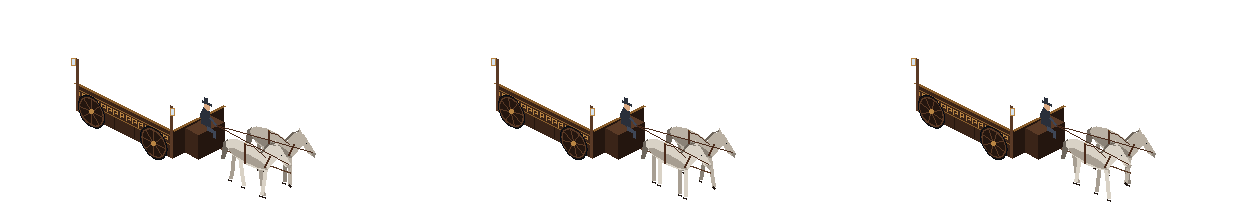
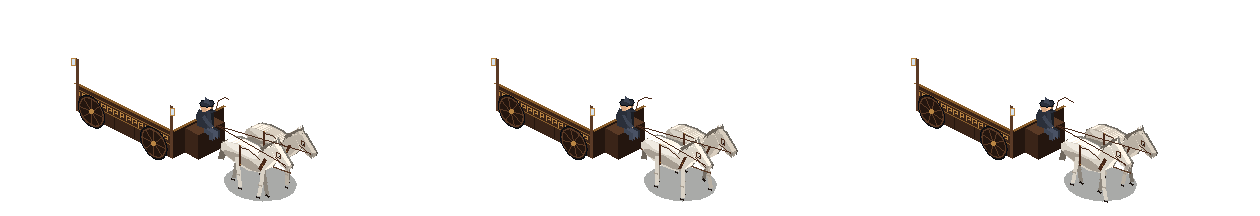
Corredor mais curto e sem casas fechadas; câmera da carruagem mais longe; cavalos e cocheiro com volume
A navegação de uma sala nova contava os móveis da sala anterior, que só
saía da árvore no fim do quadro: depois do quarto, a casa (4, 1) do
corredor ficava fechada. A sala velha agora sai da árvore na hora.
Esperando na porta de Althea, virar para uma ponta conta como olhar.

Claude-Session: https://claude.ai/code/session_014GEx4Rg2QfgQfY1tRvXLqV

Changed region(s): [[0.4643, 0.4444, 0.5881, 0.9444], [0.1548, 0.4444, 0.2476, 0.9444], [0.8048, 0.4444, 0.9286, 0.9444]]

diff --git a/tools/arte/gerar_capitulo_01.py b/tools/arte/gerar_capitulo_01.py
@@ -721,55 +721,139 @@ def carruagem_fundo():
     return q.im
 
 
-def _cavalo(d, a0, b, quadro, claro):
-    """Cavalo de perfil a trote, virado para +a; a0 = meio do corpo."""
+def _camada(im, desenhar, luz=1.0):
+    """Desenha numa camada à parte, clareia ou escurece e cola em im."""
+    from PIL import Image, ImageDraw, ImageEnhance
+    t = Image.new('RGBA', im.size, (0, 0, 0, 0))
+    desenhar(ImageDraw.Draw(t))
+    if luz != 1.0:
+        r, g, b, a = t.split()
+        rgb = ImageEnhance.Brightness(Image.merge('RGB', (r, g, b))).enhance(luz)
+        t = Image.merge('RGBA', (*rgb.split(), a))
+    im.alpha_composite(t)
+
+
+def _volume(im, b, meia, desenhar, camadas=6, luz_topo=1.18, luz_fundo=0.62):
+    """Dá volume a um desenho de perfil (Rafael, 16/10/2026: os cavalos e o
+    cocheiro pareciam 2D chapados): repete o perfil em planos de b - meia a
+    b + meia. O plano de trás sai escuro (o contorno), os do meio claros (o
+    dorso que a luz de cima pega) e o da frente com as cores normais."""
+    for k in range(camadas):
+        bk = b - meia + 2 * meia * k / (camadas - 1)
+        luz = luz_fundo if k == 0 else (1.0 if k == camadas - 1 else luz_topo)
+        _camada(im, lambda d, bk=bk: desenhar(d, bk), luz)
+
+
+def _sombra_no_chao(im, a0, b, ru, rb):
+    from PIL import ImageDraw
+    pts = [_carro_t(a0 + ru * math.cos(t * math.pi / 12), b + rb * math.sin(t * math.pi / 12), 0)
+           for t in range(24)]
+    _camada(im, lambda d: d.polygon(pts, fill=(10, 14, 8, 90)))
+
+
+def _cavalo(im, a0, b, quadro, claro):
+    """Cavalo a trote, virado para +a; a0 = meio do corpo. Corpo com volume
+    (vários planos), pernas de cada lado no seu plano, cabeça que balança no
+    trote, crina e cauda soltas, antolhos e arreio com fivelas douradas."""
     E = 1.45                       # cavalo maior que o desenho-base
-    def _pc(pts):
-        return _perfil(a0, b, [(u * E, v * E) for u, v in pts])
+    def _pc(bb, pts, sobe=0.0):
+        return _perfil(a0, bb, [(u * E, (v + sobe) * E) for u, v in pts])
     pele, sombra = ('cavalo', 'cavalo_sombra') if claro else ('cavalo2', 'cavalo2_sombra')
-    # pernas: pares diagonais a trote (3 quadros)
+    luz = 'cavalo_luz' if claro else 'cavalo'
+    meia = 0.16                    # meia largura do corpo, em casas
     passo = (-3, 0, 3)[quadro]
-    pernas = [(-11, passo), (-7, -passo), (9, -passo), (13, passo)]
-    for i, (u, dx) in enumerate(pernas):
-        cor = sombra if i in (0, 2) else pele
-        d.line(_pc([(u, 20), (u + dx * 0.5, 9), (u + dx, 1)]), fill=C[cor], width=4)
-        d.line(_pc([(u + dx - 1, 0), (u + dx + 1, 0)]), fill=C['roda'], width=2)
-    # cauda
-    d.polygon(_pc([(-16, 27), (-19, 24), (-21, 12), (-18, 13), (-15, 23)]), fill=C['crina'])
-    # corpo, peito e garupa
-    d.polygon(_elipse_perfil(a0, b, 0, 24 * E, 17 * E, 7.5 * E), fill=C[pele])
-    d.polygon(_elipse_perfil(a0, b, 0, 21 * E, 15 * E, 3 * E), fill=C[sombra])
-    # pescoço e cabeça
-    d.polygon(_pc([(10, 27), (15, 21), (24, 33), (21, 39), (16, 38)]), fill=C[pele])
-    d.polygon(_pc([(19, 39), (24, 40), (33, 31), (32, 28), (28, 29), (22, 34)]), fill=C[pele])
-    d.polygon(_pc([(29, 30), (33, 31), (32, 28)]), fill=C[sombra])
-    d.polygon(_pc([(20, 40), (21, 43), (23, 40)]), fill=C[pele])        # orelha
-    d.line(_pc([(10, 30), (16, 38), (20, 41)]), fill=C['crina'], width=2)   # crina
-    x, y = _pc([(26, 35)])[0]
-    d.point((x, y), fill=C['contorno'])                                              # olho
-    # arreio: coleira, cilha e rédeas
-    d.line(_pc([(13, 21), (17, 30)]), fill=C['couro'], width=2)
-    d.line(_pc([(-2, 17), (-2, 31)]), fill=C['couro'], width=2)
-    d.line(_pc([(-2, 30), (4, 31), (13, 28)]), fill=C['couro'])
-    xs, ys = _pc([(-2, 31)])[0]
-    d.point((xs, ys), fill=C['ouro'])
+    sobe = (0.0, 1.0, 0.0)[quadro]          # o corpo sobe no meio do trote
+    cabeca = (0.0, -1.0, 1.0)[quadro]       # e a cabeça balança
+    # pernas: as do lado de lá no plano de trás, as de cá no da frente
+    pernas = [(-11, passo, -1), (-7, -passo, 1), (9, -passo, -1), (13, passo, 1)]
+    def perna(d, bb, u, dx):
+        cor = sombra if bb < b else pele
+        d.line(_pc(bb, [(u, 20), (u + dx * 0.5, 9), (u + dx, 1)], sobe * 0.5), fill=C[cor], width=4)
+        d.line(_pc(bb, [(u + dx * 0.5 - 1, 9), (u + dx * 0.5 + 1, 9)]), fill=C['cavalo_sombra'], width=2)
+        d.line(_pc(bb, [(u + dx - 1, 0), (u + dx + 1, 0)]), fill=C['roda'], width=2)
+    for u, dx, lado in pernas:
+        if lado < 0:
+            _camada(im, lambda d, u=u, dx=dx: perna(d, b - meia * 0.6, u, dx), 0.85)
+    # cauda (balança com o trote) no plano do meio
+    rabo = (-1, 1, 0)[quadro]
+    _camada(im, lambda d: d.polygon(_pc(b, [(-16, 27), (-19 + rabo, 24), (-22 + rabo, 11),
+                                            (-18 + rabo, 12), (-15, 23)], sobe), fill=C['crina']))
+    # corpo, pescoço e cabeça com volume
+    def corpo(d, bb):
+        d.polygon(_elipse_perfil(a0, bb, 0, (24 + sobe) * E, 17 * E, 7.5 * E), fill=C[pele])
+        d.polygon(_elipse_perfil(a0, bb, 0, (21 + sobe) * E, 15 * E, 3 * E), fill=C[sombra])
+        d.polygon(_elipse_perfil(a0, bb, -2, (28 + sobe) * E, 12 * E, 2.5 * E), fill=C[luz])
+        d.polygon(_pc(bb, [(10, 27), (15, 21), (24, 33 + cabeca), (21, 39 + cabeca), (16, 38)], sobe), fill=C[pele])
+    _volume(im, b, meia, corpo, camadas=6)
+    def cabeca_de(d, bb):
+        c = cabeca + sobe
+        d.polygon(_pc(bb, [(19, 39), (24, 40), (33, 31), (32, 28), (28, 29), (22, 34)], c), fill=C[pele])
+        d.polygon(_pc(bb, [(29, 30), (33, 31), (32, 28)], c), fill=C[sombra])
+        d.polygon(_pc(bb, [(20, 40), (21, 44), (23, 40)], c), fill=C[pele])         # orelha
+    _volume(im, b, meia * 0.5, cabeca_de, camadas=4)
+    # crina no alto do pescoço, entre o plano do meio e o de trás
+    def crina(d):
+        c = cabeca + sobe
+        pts = [(9, 31), (12, 34), (15, 37), (18, 40), (21, 42)]
+        d.line(_pc(b - meia * 0.3, pts, c), fill=C['crina'], width=3)
+        for k, (u, v) in enumerate(pts[:-1]):
+            d.line(_pc(b - meia * 0.3, [(u, v), (u - 2, v - 3 - (k + quadro) % 2)], c), fill=C['crina'])
+    _camada(im, crina)
+    # pernas do lado de cá, por cima do corpo
+    for u, dx, lado in pernas:
+        if lado > 0:
+            _camada(im, lambda d, u=u, dx=dx: perna(d, b + meia * 0.6, u, dx))
+    # olho, antolho e arreio no plano da frente
+    def arreio(d):
+        c = cabeca + sobe
+        bb = b + meia * 0.5
+        x, y = _pc(bb, [(26, 35)], c)[0]
+        d.point((x, y), fill=C['contorno'])
+        d.polygon(_pc(bb, [(24, 34), (27, 34), (27, 37), (24, 37)], c), outline=C['couro'])   # antolho
+        d.line(_pc(bb, [(23, 33), (31, 30)], c), fill=C['couro'])                            # cabeçada
+        bf = b + meia
+        d.line(_pc(bf, [(13, 21), (17, 30)], sobe), fill=C['couro'], width=3)                # coleira
+        d.line(_pc(bf, [(-2, 17), (-2, 31)], sobe), fill=C['couro'], width=2)                # cilha
+        d.line(_pc(bf, [(-2, 30), (4, 31), (13, 28)], sobe), fill=C['couro'])
+        for u, v in ((-2, 31), (15, 25), (-2, 18)):
+            d.point(_pc(bf, [(u, v)], sobe)[0], fill=C['ouro'])
+    _camada(im, arreio)
 
 
-def _cocheiro(d):
-    """O cocheiro no banco da frente, de perfil, virado para os cavalos."""
+def _cocheiro(im, quadro):
+    """O cocheiro no banco da frente, virado para os cavalos, com volume:
+    capa, chapéu de aba, rédeas numa mão e o chicote erguido na outra."""
     A = CARRO_A
     a0, b = A + 0.25, 0.0
-    # banco alto do cocheiro
-    _carro_quad(d, [(A, -0.4, 30), (A + 0.42, -0.4, 30), (A + 0.42, 0.4, 30), (A, 0.4, 30)], 'carro_luz')
-    _carro_quad(d, [(A, 0.4, 6), (A + 0.42, 0.4, 6), (A + 0.42, 0.4, 30), (A, 0.4, 30)], 'carro')
-    _carro_quad(d, [(A + 0.42, -0.4, 6), (A + 0.42, 0.4, 6), (A + 0.42, 0.4, 30), (A + 0.42, -0.4, 30)], 'carro_sombra')
-    # corpo sentado: capa, pernas para a frente, cabeça e chapéu
-    d.polygon(_perfil(a0, b, [(-5, 30), (5, 30), (4, 46), (-3, 47), (-6, 40)]), fill=C['cocheiro'])
-    d.polygon(_perfil(a0, b, [(2, 30), (11, 29), (11, 22), (8, 22), (8, 26), (2, 26)]), fill=C['cocheiro_luz'])
-    d.polygon(_elipse_perfil(a0, b, 1, 50, 3, 3.5), fill=C['pele_cocheiro'])
-    d.polygon(_perfil(a0, b, [(-4, 52), (6, 52), (6, 54), (2, 54), (2, 58), (-2, 58), (-2, 54), (-4, 54)]),
-              fill=C['cocheiro'])
-    d.line(_perfil(a0, b, [(4, 40), (12, 36)]), fill=C['cocheiro_luz'], width=2)   # braço nas rédeas
+    sobe = (0, 1, 0)[quadro]
+    def banco(d):
+        _carro_quad(d, [(A, -0.4, 30), (A + 0.42, -0.4, 30), (A + 0.42, 0.4, 30), (A, 0.4, 30)], 'carro_luz')
+        _carro_quad(d, [(A, 0.4, 6), (A + 0.42, 0.4, 6), (A + 0.42, 0.4, 30), (A, 0.4, 30)], 'carro')
+        _carro_quad(d, [(A + 0.42, -0.4, 6), (A + 0.42, 0.4, 6), (A + 0.42, 0.4, 30), (A + 0.42, -0.4, 30)], 'carro_sombra')
+    _camada(im, banco)
+    def corpo(d, bb):
+        d.polygon(_perfil(a0, bb, [(-6, 30), (5, 30), (4, 46 + sobe), (-3, 47 + sobe), (-7, 40)]), fill=C['cocheiro'])
+        d.polygon(_perfil(a0, bb, [(2, 30), (11, 29), (11, 22), (8, 22), (8, 26), (2, 26)]), fill=C['cocheiro_luz'])
+        d.polygon(_elipse_perfil(a0, bb, 1, 50 + sobe, 3, 3.5), fill=C['pele_cocheiro'])
+    _volume(im, b, 0.11, corpo, camadas=4)
+    def chapeu(d):
+        aba = [_carro_t(a0 + 1 / CASA + 0.16 * math.cos(t * math.pi / 8), b + 0.16 * math.sin(t * math.pi / 8),
+                        53 + sobe) for t in range(16)]
+        d.polygon(aba, fill=C['cocheiro'], outline=C['contorno'])
+        d.polygon(_perfil(a0, b, [(-2, 53 + sobe), (4, 53 + sobe), (3, 58 + sobe), (-1, 58 + sobe)]),
+                  fill=C['cocheiro_luz'])
+    _camada(im, chapeu)
+    def bracos(d):
+        bf = b + 0.12
+        d.line(_perfil(a0, bf, [(1, 42 + sobe), (6, 38), (12, 36)]), fill=C['cocheiro_luz'], width=3)  # rédeas
+        x, y = _perfil(a0, bf, [(12, 36)])[0]
+        d.point((x, y), fill=C['pele_cocheiro'])
+        bt = b - 0.12                                                                    # chicote
+        ponta = (24 + 3 * (quadro - 1), 66 - abs(quadro - 1) * 2)
+        d.line(_perfil(a0, bt, [(1, 42 + sobe), (6, 46)]), fill=C['cocheiro'], width=3)
+        d.line(_perfil(a0, bt, [(6, 46), (10, 58)]), fill=C['carro_luz'], width=1)
+        d.line(_perfil(a0, bt, [(10, 58), (17, 64), ponta]), fill=C['couro'], width=1)
+    _camada(im, bracos)
 
 
 def carruagem_frente():
@@ -783,12 +867,13 @@ def carruagem_frente():
         d = ImageDraw.Draw(q.im)
         bd = CARRO_BORDA
         # cavalo do outro lado, varal e cocheiro (atrás da borda de perto)
-        _cavalo(d, A + 1.95, -0.38, (i + 1) % 3, False)
+        _sombra_no_chao(q.im, A + 1.95, 0.0, 0.85, 0.75)
+        _cavalo(q.im, A + 1.95, -0.38, (i + 1) % 3, False)
         d.line([_carro_t(A, 0.0, 12), _carro_t(A + 2.9, 0.0, 26)], fill=C['carro_luz'], width=2)
         # lado da frente (a = A), baixo em corte, e o cocheiro do lado de fora
         _carro_quad(d, [(A, -B, 6), (A, B, 6), (A, B, bd), (A, -B, bd)], 'carro_sombra')
         _carro_quad(d, [(A, -B, bd), (A + 0.06, -B, bd), (A + 0.06, B, bd), (A, B, bd)], 'ouro_sombra')
-        _cocheiro(d)
+        _cocheiro(q.im, i)
         # lado de perto (b = B): borda baixa com friso grego e porta
         _carro_quad(d, [(-A, B, 6), (A, B, 6), (A, B, bd), (-A, B, bd)], 'carro')
         _carro_quad(d, [(-A, B, bd), (A, B, bd), (A, B + 0.06, bd), (-A, B + 0.06, bd)], 'ouro_sombra')
@@ -808,11 +893,12 @@ def carruagem_frente():
         giro = i * math.pi / 12
         _roda(d, -0.95, B + 0.08, giro)
         _roda(d, 1.0, B + 0.08, giro)
-        _cavalo(d, A + 1.95, 0.38, i, True)
+        _cavalo(q.im, A + 1.95, 0.38, i, True)
         # rédeas: da boca de cada cavalo até as mãos do cocheiro
         mao = _carro_t(A + 0.25 + 12 / CASA, 0.0, 36)
-        for b in (-0.38, 0.38):
-            boca = _carro_t(A + 1.95 + 31 * 1.45 / CASA, b, 31 * 1.45)
+        for b, qd in ((-0.38, (i + 1) % 3), (0.38, i)):
+            v = 31 + (0.0, 1.0, 0.0)[qd] + (0.0, -1.0, 1.0)[qd]
+            boca = _carro_t(A + 1.95 + 31 * 1.45 / CASA, b + 0.08, v * 1.45)
             d.line([boca, mao], fill=C['couro'])
         tira.paste(q.im, (i * CARRO_W, 0))
     return tira
